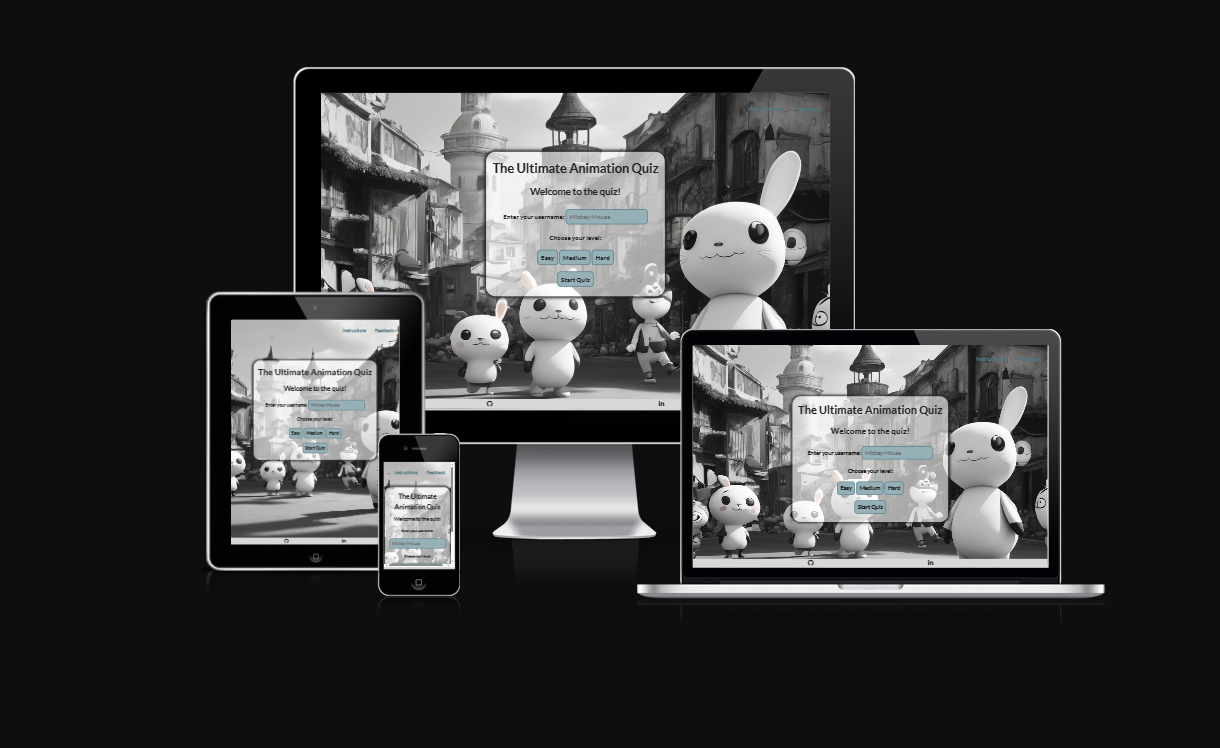
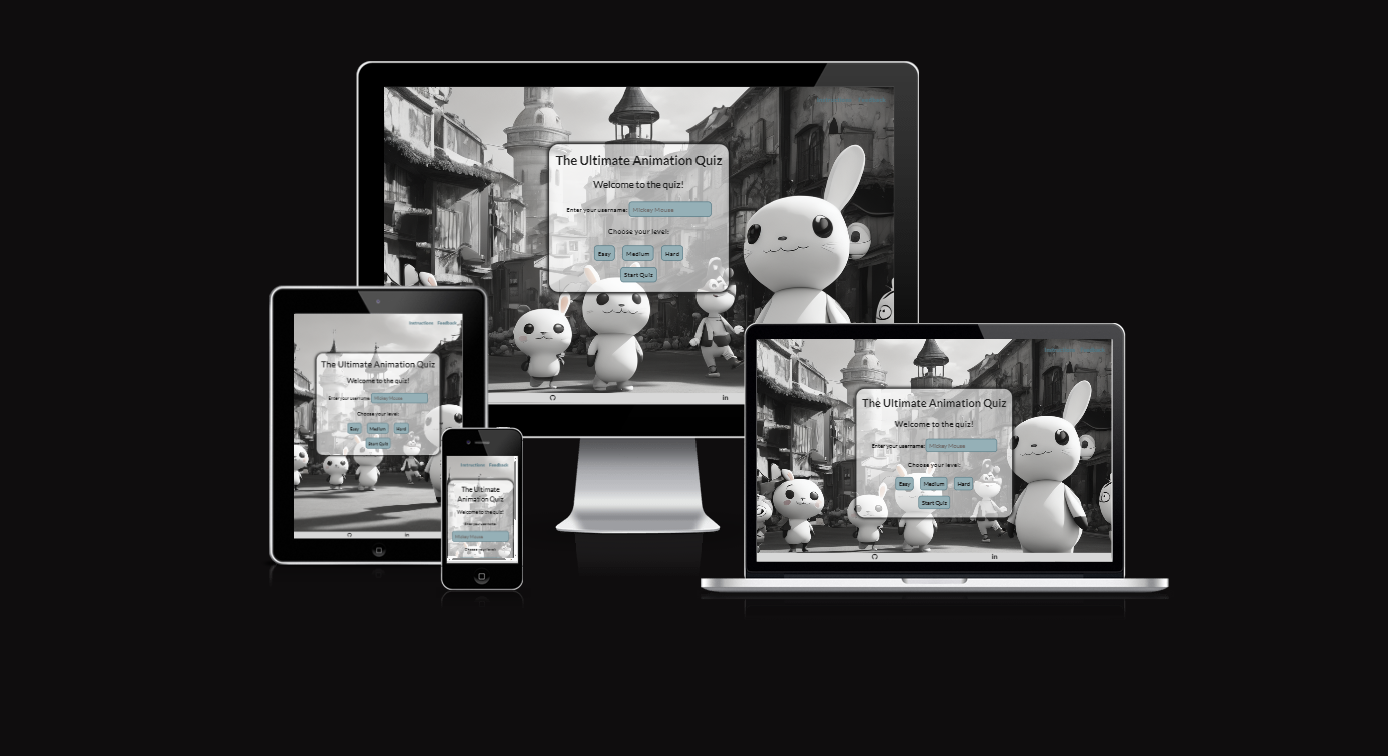
add: feature screenshots to README

Changed region(s): [[0.1557, 0.0615, 0.9033, 0.7995]]

diff --git a/feedback-thanks.html b/feedback-thanks.html
@@ -7,8 +7,8 @@
   <meta name="viewport" content="width=device-width, initial-scale=1.0">
   <meta name="description" content="The ultimate animation quiz for animation and cartoon enthusiasts">
   <meta name="keywords" content="animation, anime, cartoon, quiz, knowledge, test, challenge, score, tv, cinema">
-  <meta http-equiv="refresh" content="5;url=https://indre-v.github.io/animation-quiz">
-  
+  <meta http-equiv="refresh" content="5; url=https://indre-v.github.io/animation-quiz">
+
   <link rel="apple-touch-icon" sizes="180x180" href="assets/favicon/apple-touch-icon.png">
   <link rel="icon" type="image/png" sizes="32x32" href="assets/favicon/favicon-32x32.png">
   <link rel="icon" type="image/png" sizes="16x16" href="assets/favicon/favicon-16x16.png">

diff --git a/404.html b/404.html
@@ -7,7 +7,7 @@
   <meta name="viewport" content="width=device-width, initial-scale=1.0">
   <meta name="description" content="The ultimate animation quiz for animation and cartoon enthusiasts">
   <meta name="keywords" content="animation, anime, cartoon, quiz, knowledge, test, challenge, score, tv, cinema">
-  <meta http-equiv="refresh" content="15;url=https://indre-v.github.io/animation-quiz">
+  <meta http-equiv="refresh" content="15; url=https://indre-v.github.io/animation-quiz">
 
   <link rel="apple-touch-icon" sizes="180x180" href="assets/favicon/apple-touch-icon.png">
   <link rel="icon" type="image/png" sizes="32x32" href="assets/favicon/favicon-32x32.png">

diff --git a/assets/js/script.js b/assets/js/script.js
@@ -123,8 +123,9 @@ const displayFinalScore = () => {
     const scoreObject = {
         name: usernameRef.value,
         score: score
+        
     };
-
+console.log("add score");
     highScores.push(scoreObject);
     highScores.splice(5);
     localStorage.setItem('highScores', JSON.stringify(highScores));

diff --git a/README.md b/README.md
@@ -169,7 +169,7 @@ Users have an option to submit feedback and any other queries they may have. All
 
 #### Feedback Confirmation
 
-Provides the user with acknowledgement. Page reloads after 5 seconds and return to the start screen. 
+Provides the user with acknowledgement. Page reloads after 5 seconds and returns to the start screen. 
 
 <details><summary><b>Feedback Confirmation Page</b></summary>
 
@@ -201,7 +201,11 @@ _Small Screen Devices_
 
 ### Question View
 
-Questions are multiple choice and displayed one by one. The question body and 4 possible answers can be seen. Above the questions, users can see the timer and the progress which displays question number. The timer is set to 20 seconds, if the question is not answered to moves to the next one and the timer starts again. When the answer is selected, correct answer is displayed in green and wrong one in red. Under the question choices, users can also see the level selected and the number of right and wrong answers. 
+Questions are multiple choice and displayed one by one. The question body and 4 possible answers can be seen. Above the questions, users can see the timer and the progress which displays question number. The timer is set to 20 seconds, if the question is not answered to moves to the next one and the timer starts again. When the answer is selected, correct answer is displayed in green and wrong one in red. 
+
+Users can also monitor their progress. Above the question, a question number is displayed. Also, after each question a dot appears with the corresponding color whether the answer was wrong or right. If the answer timed out, the dot will be grey. It is a vsual representation of the players progress.
+
+Under the question choices, users can also see the level selected and the number of right and wrong answers as well. 
 
 <details><summary><b>Question View</b></summary>
 
@@ -213,15 +217,25 @@ Questions are multiple choice and displayed one by one. The question body and 4 
 
 ### Final Score View
 
-Final score view displays a message depending on the right score with the username. Also, a Play Again button which brings the user back to the landing view.
+Final score view displays a message depending on the right score with the username. Also, a Play Again and Player Scores buttons are displayed. Play Again buttons resets the game bring user to the landing view.
 
-<details><summary><b>Question View</b></summary>
+<details><summary><b>Final Score View</b></summary>
 
 ![Final Score](docs/final-score.png)
 
 </details><br/>
 
 [Back to top](#contents)
+
+### Player Scores
+
+Local storage feature has been introduced to store top 5 player scores. When the button is clicked. The cores are displayed in the alert. 
+
+<details><summary><b>Player Scores View/b></summary>
+
+![Player Scores View](docs/player-scores-view.png)
+
+</details><br/>
 
 ### Footer
 
@@ -430,10 +444,10 @@ Tests for Desktop on Lighthouse Chrome:
 Tests for Mobile on Lighthouse Chrome:
 ![Lighthouse-Mobile-Chrome-Index](docs/lighthouse-mobile-chrome-index.png "Lighthouse-Mobile-Chrome-Index")
 
-Tests for Desktop and Mobile on Lighthouse Edge:
+Tests for Desktop Lighthouse Edge:
 ![Lighthouse-Desktop-Edge-Index](docs/lighthouse-desktop-edge-index.png "Lighthouse-Desktop-Edge-Index")
 
-Tests for Desktop and Mobile on Lighthouse Edge:
+Tests for Mobile on Lighthouse Edge:
 ![Lighthouse-Mobile-Edge-Index](docs/lighthouse-mobile-edge-index.png "Lighthouse-Mobile-Edge-Index")
 
 
